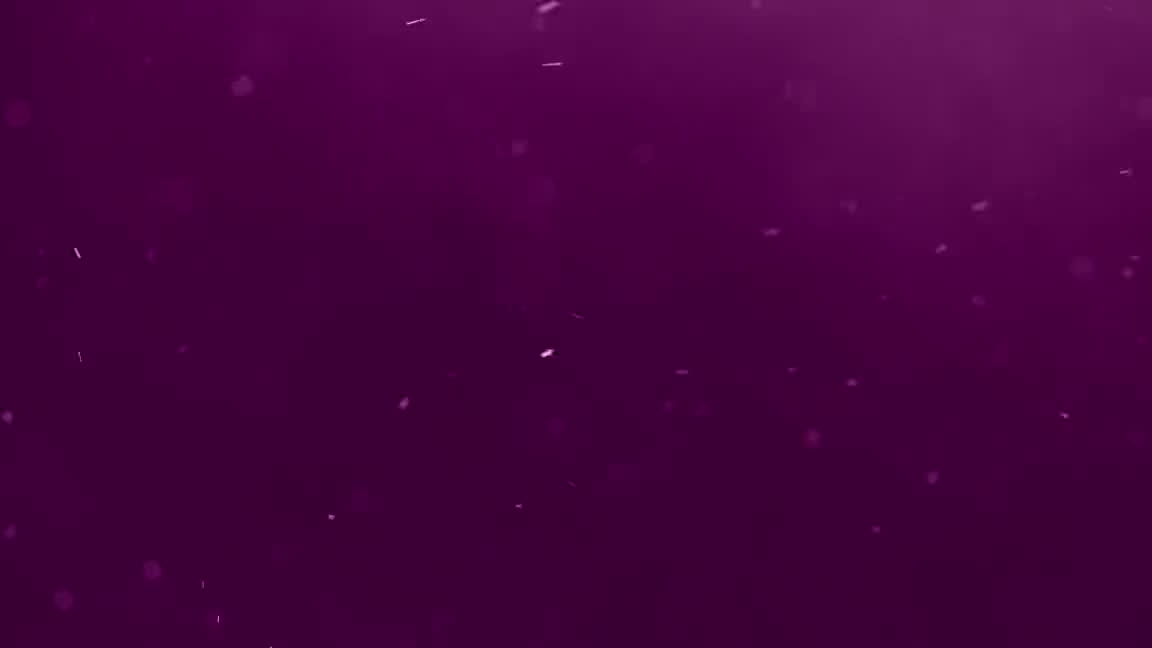
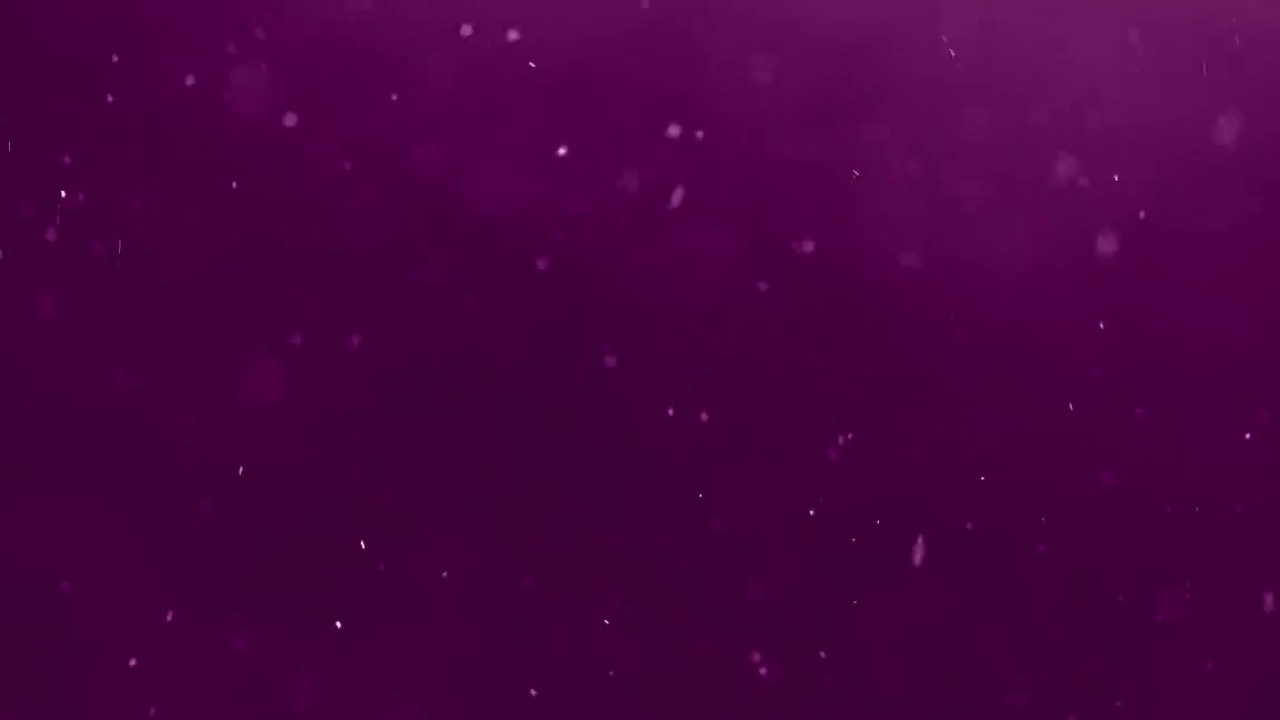
Corrige empilhamento do video da faixa final (quadrado atras do botao); poster melhor; scroll-margin nas ancoras

diff --git a/index.html b/index.html
@@ -28,6 +28,7 @@
     --shadow:0 26px 60px -28px rgba(37,27,45,.4);
   }
   html{scroll-behavior:smooth}
+  #filosofia,#procedimentos,#sobre,#contato{scroll-margin-top:5rem}
   body{
     font-family:'Hanken Grotesk',-apple-system,BlinkMacSystemFont,sans-serif;
     color:var(--ink);
@@ -227,12 +228,14 @@
   }
 
   /* ---------- final cta ---------- */
-  .final{position:relative;isolation:isolate;overflow:hidden;background:linear-gradient(150deg,var(--plum),var(--plum-deep));color:#f1e7e0;padding:6.5rem 0;text-align:center}
+  .final{position:relative;overflow:hidden;background:linear-gradient(150deg,var(--plum),var(--plum-deep));color:#f1e7e0;padding:6.5rem 0;text-align:center}
   .final__bg{
-    position:absolute;inset:0;width:100%;height:100%;object-fit:cover;z-index:-1;
-    opacity:0;transition:opacity 1.2s ease;mix-blend-mode:screen;pointer-events:none;
+    position:absolute;inset:0;width:100%;height:100%;object-fit:cover;
+    z-index:0;opacity:0;transition:opacity 1.4s ease;
+    mix-blend-mode:screen;pointer-events:none;
   }
-  .final__bg.on{opacity:.5}
+  .final__bg.on{opacity:.6}
+  .final>.wrap{position:relative;z-index:1}
   @media(prefers-reduced-motion:reduce){.final__bg{display:none}}
   .final h2{font-size:clamp(2.3rem,4.5vw,3.6rem);margin-bottom:1.2rem}
   @media(max-width:960px){.final h2 br{display:none}}
